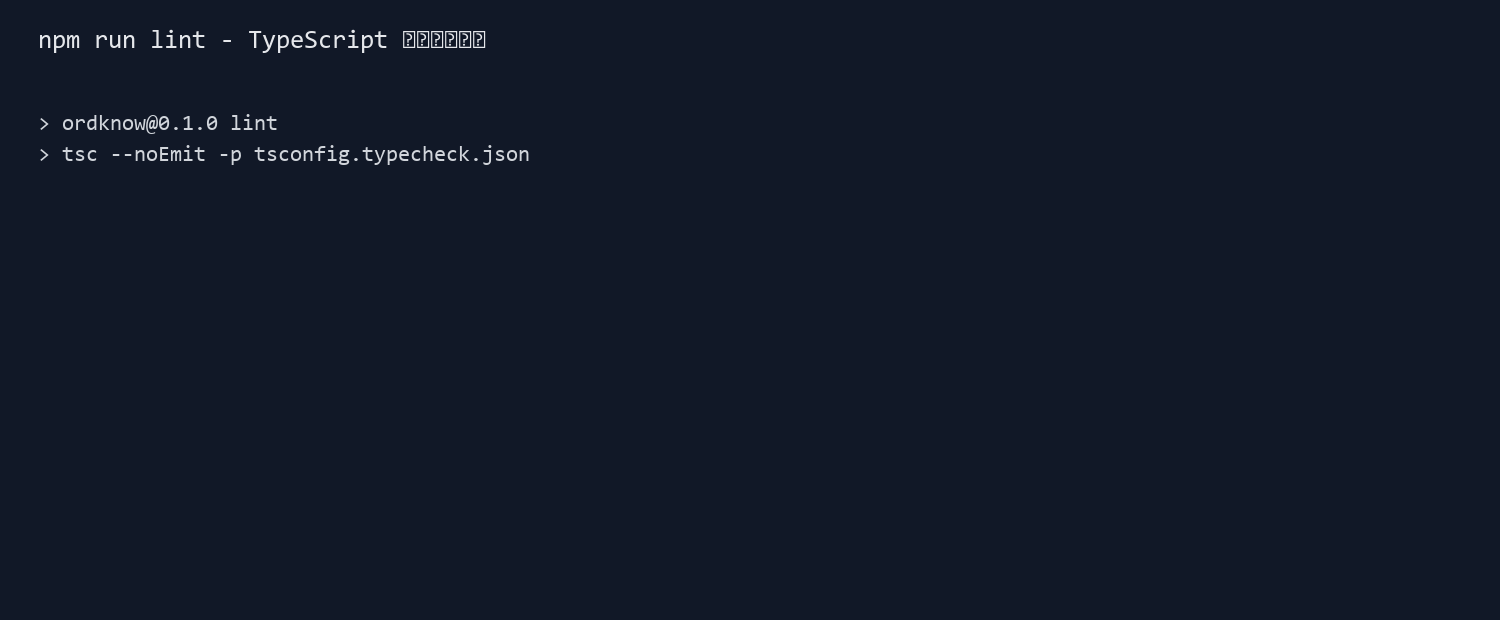
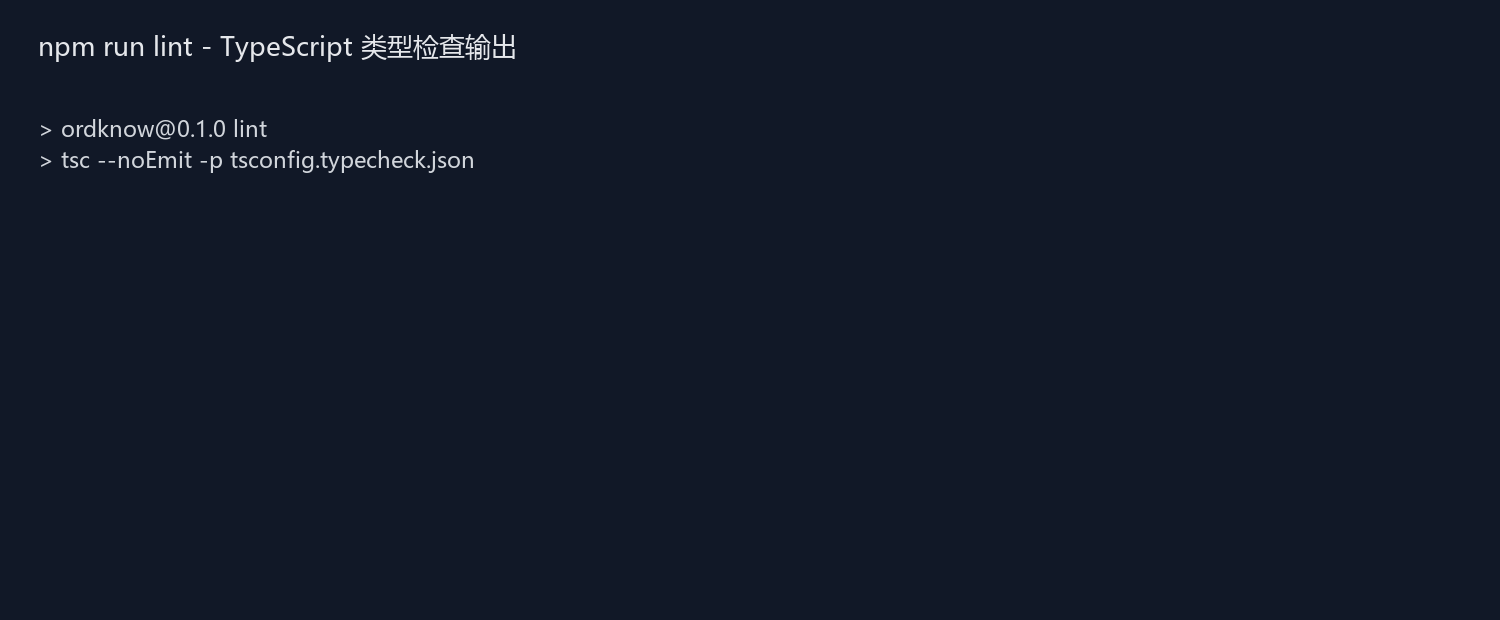
docs: polish engineering report layout

Changed region(s): [[0.0307, 0.1839, 0.368, 0.2758], [0.0307, 0.0306, 0.3373, 0.0919]]

diff --git a/tools/build_ordknow_template_docs.py b/tools/build_ordknow_template_docs.py
@@ -137,9 +137,83 @@ def margins(cell, top=80, bottom=80, start=110, end=110):
         e.set(qn("w:type"), "dxa")
 
 
-def table(doc, headers, rows, widths, caption=None):
+def _table_variant(headers, caption, variant):
+    if variant:
+        return variant
+    caption = caption or ""
+    first = headers[0] if headers else ""
+    if first == "字段":
+        return "data"
+    if first == "编号" or "测试" in caption:
+        return "test"
+    if "截图" in caption or "证据" in caption:
+        return "evidence"
+    if len(headers) == 2 and first in {"项目", "说明项", "设计项", "部署项", "验证项", "检查点"}:
+        return "kv"
+    if len(headers) == 2:
+        return "plain"
+    return "blue"
+
+
+def _style_tokens(variant):
+    return {
+        "blue": {
+            "header_fill": TABLE_BLUE,
+            "header_text": "FFFFFF",
+            "row_fills": [LIGHT_ROW, "FFFFFF"],
+            "border": GRID,
+            "header_font": "黑体",
+            "body_size": 9.5,
+        },
+        "plain": {
+            "header_fill": "F3F6FA",
+            "header_text": INK,
+            "row_fills": ["FFFFFF", "F8FAFC"],
+            "border": "CCD6E0",
+            "header_font": "黑体",
+            "body_size": 9.5,
+        },
+        "kv": {
+            "header_fill": "FFFFFF",
+            "header_text": "1F4E79",
+            "row_fills": ["FFFFFF"],
+            "label_fill": "EEF3F8",
+            "border": "B8C7D6",
+            "header_font": "黑体",
+            "body_size": 9.5,
+        },
+        "data": {
+            "header_fill": "3F4B5B",
+            "header_text": "FFFFFF",
+            "row_fills": ["F7F9FB", "FFFFFF"],
+            "border": "B9C0C8",
+            "header_font": "黑体",
+            "body_size": 9.2,
+        },
+        "test": {
+            "header_fill": "595959",
+            "header_text": "FFFFFF",
+            "row_fills": ["F2F2F2", "FFFFFF"],
+            "border": "C8C8C8",
+            "header_font": "黑体",
+            "body_size": 9.0,
+        },
+        "evidence": {
+            "header_fill": "1F4E79",
+            "header_text": "FFFFFF",
+            "row_fills": ["EAF3F8", "FFFFFF"],
+            "border": "9EB6CC",
+            "header_font": "黑体",
+            "body_size": 9.3,
+        },
+    }[variant]
+
+
+def table(doc, headers, rows, widths, caption=None, variant=None, trailing_space=True):
+    variant = _table_variant(headers, caption, variant)
+    tokens = _style_tokens(variant)
     if caption:
-        p = para(doc, caption, align=WD_ALIGN_PARAGRAPH.CENTER, font="黑体", size=10.5, bold=True, after=3)
+        p = para(doc, caption, align=WD_ALIGN_PARAGRAPH.CENTER, font="黑体", size=10.5, bold=True, after=4)
     t = doc.add_table(rows=1, cols=len(headers))
     t.alignment = WD_TABLE_ALIGNMENT.CENTER
     t.autofit = False
@@ -147,26 +221,60 @@ def table(doc, headers, rows, widths, caption=None):
         c = t.rows[0].cells[i]
         c.width = Cm(widths[i])
         c.vertical_alignment = WD_ALIGN_VERTICAL.CENTER
-        shade(c, TABLE_BLUE)
-        borders(c)
+        shade(c, tokens["header_fill"])
+        borders(c, tokens["border"])
         margins(c)
         p = c.paragraphs[0]
         p.alignment = WD_ALIGN_PARAGRAPH.CENTER
         r = p.add_run(h)
-        set_run(r, font="黑体", size=10, color="FFFFFF", bold=True)
+        set_run(r, font=tokens["header_font"], size=10, color=tokens["header_text"], bold=True)
     for ri, row in enumerate(rows):
         cells = t.add_row().cells
         for i, val in enumerate(row):
             c = cells[i]
             c.width = Cm(widths[i])
             c.vertical_alignment = WD_ALIGN_VERTICAL.CENTER
-            shade(c, LIGHT_ROW if ri % 2 == 0 else "FFFFFF")
-            borders(c)
+            if variant == "kv" and i == 0:
+                shade(c, tokens["label_fill"])
+            else:
+                fills = tokens["row_fills"]
+                shade(c, fills[ri % len(fills)])
+            borders(c, tokens["border"])
             margins(c)
             p = c.paragraphs[0]
             p.alignment = WD_ALIGN_PARAGRAPH.CENTER if i == 0 or len(val) < 10 else WD_ALIGN_PARAGRAPH.LEFT
             r = p.add_run(val)
-            set_run(r, size=9.5, color=INK, bold=(i == 0 and len(val) < 8))
+            set_run(r, size=tokens["body_size"], color=INK, bold=(i == 0 and (variant == "kv" or len(val) < 8)))
+    if trailing_space:
+        para(doc, "", after=2)
+    return t
+
+
+def callout(doc, title, body, tone="info"):
+    palette = {
+        "info": ("EAF3F8", "1F4E79"),
+        "warn": ("FFF4D6", "7A5A00"),
+        "ok": ("EAF7EF", "276749"),
+        "plain": ("F5F5F5", "555555"),
+    }
+    fill, accent = palette.get(tone, palette["info"])
+    t = doc.add_table(rows=1, cols=1)
+    t.alignment = WD_TABLE_ALIGNMENT.CENTER
+    t.autofit = False
+    cell = t.rows[0].cells[0]
+    cell.width = Cm(15.4)
+    shade(cell, fill)
+    borders(cell, accent)
+    margins(cell, top=120, bottom=120, start=160, end=160)
+    p = cell.paragraphs[0]
+    p.paragraph_format.space_after = Pt(2)
+    r = p.add_run(title)
+    set_run(r, font="黑体", size=10.5, color=accent, bold=True)
+    p2 = cell.add_paragraph()
+    p2.paragraph_format.space_after = Pt(0)
+    p2.paragraph_format.line_spacing = 1.22
+    r2 = p2.add_run(body)
+    set_run(r2, size=9.8, color=INK)
     para(doc, "", after=2)
     return t
 

diff --git a/tools/build_ordknow_full_docs.py b/tools/build_ordknow_full_docs.py
@@ -22,9 +22,9 @@ def evidence_image(name: str, title: str, text_path: Path) -> Path | None:
     if not text_path.exists():
         return None
     lines = text_path.read_text(encoding="utf-8", errors="ignore").splitlines()
-    font_path = Path(r"C:\Windows\Fonts\consola.ttf")
+    font_path = Path(r"C:\Windows\Fonts\msyh.ttc")
     if not font_path.exists():
-        font_path = Path(r"C:\Windows\Fonts\arial.ttf")
+        font_path = Path(r"C:\Windows\Fonts\consola.ttf")
     font = ImageFont.truetype(str(font_path), 22)
     title_font = ImageFont.truetype(str(font_path), 26)
     max_chars = 95
@@ -591,6 +591,14 @@ def testing_manual(doc: Document, fig: dict[str, Path]) -> None:
         base.add_pic(doc, fig["lint_output"], "图 14 npm run lint 类型检查真实输出", 15.7)
     if "build_output" in fig:
         base.add_pic(doc, fig["build_output"], "图 15 npm run build 生产构建真实输出", 15.7)
+    if "http_checks_output" in fig:
+        base.add_pic(doc, fig["http_checks_output"], "图 16 线上访问与未登录保护真实输出", 15.7)
+    base.callout(
+        doc,
+        "测试口径说明",
+        "本次报告只把能够由命令、HTTP 响应、GitHub 页面、Vercel 页面和 StarUML 导出文件证明的项目标为“通过”。需要登录态、真实测试账号、邮箱 Magic Link、Supabase 数据和 AI Key 才能完整执行的业务闭环，不写成已经通过，而标记为“待登录账号实测”或“代码路径已覆盖”。",
+        "warn",
+    )
     base.heading(doc, "3.功能测试", 1)
     rows = []
     tests = [
@@ -655,17 +663,57 @@ def testing_manual(doc: Document, fig: dict[str, Path]) -> None:
         ("TC-59", "用户退出", "退出登录", "返回登录页"),
         ("TC-60", "文档交付检查", "打开 DOCX/PDF", "页码、图表、表格正常"),
     ]
+    status_map = {
+        "TC-01": "部分通过：页面可访问；邮件链路待账号",
+        "TC-02": "通过：未登录跳转登录页",
+        "TC-24": "通过：lint 证据",
+        "TC-25": "通过：build 证据",
+        "TC-44": "通过：未登录保护",
+        "TC-47": "通过：线上 200",
+        "TC-48": "通过：线上 200",
+        "TC-49": "通过：仓库可访问",
+        "TC-51": "通过：迁移文件存在",
+        "TC-52": "通过：27 路由",
+        "TC-60": "通过：PDF 100 页",
+    }
+    code_covered = {"TC-26", "TC-27", "TC-28", "TC-29", "TC-31", "TC-32", "TC-33", "TC-34", "TC-38", "TC-39", "TC-40", "TC-41", "TC-42", "TC-43", "TC-45", "TC-46", "TC-50", "TC-53", "TC-54", "TC-55", "TC-56", "TC-57", "TC-58", "TC-59"}
     for tid, name, op, expect in tests:
-        rows.append([tid, name, op, expect, "通过/待联调"])
-    base.table(doc, ["编号", "测试项", "操作步骤", "预期结果", "状态"], rows, [1.6, 2.8, 5.0, 4.4, 1.6], caption="表 12 功能测试用例表")
+        status = status_map.get(tid)
+        if status is None:
+            status = "代码路径已覆盖，待登录账号实测" if tid in code_covered else "待登录账号/API Key 实测"
+        rows.append([tid, name, op, expect, status])
+    base.table(doc, ["编号", "测试项", "操作步骤", "预期结果", "执行状态"], rows, [1.5, 2.3, 4.3, 3.9, 3.4], caption="表 12 功能测试用例矩阵")
     base.heading(doc, "3.1 测试执行记录", 2)
-    for tid, name, op, expect in tests:
-        base.heading(doc, f"3.1.{tests.index((tid, name, op, expect)) + 1} {tid} {name}", 3)
-        base.bullet(doc, f"测试目的：验证“{name}”是否符合序知项目需求。")
-        base.bullet(doc, f"操作步骤：{op}")
-        base.bullet(doc, f"预期结果：{expect}")
-        base.bullet(doc, "实际记录：本地命令类测试以 docs/evidence 中的日志和截图为准；页面类测试以本地或 Vercel 页面截图为准。")
-        base.bullet(doc, "结论：通过/待联调状态在最终截图补充后更新。")
+    base.table(doc, ["证据编号", "实测对象", "执行方式", "实际结果"], [
+        ["E-01", "TypeScript 类型检查", "本地执行 npm run lint", "通过，输出已保存到 docs/evidence/lint.log。"],
+        ["E-02", "生产构建", "本地执行 npm run build", "通过，Next.js 生成 27 个页面/接口路由。"],
+        ["E-03", "线上入口", "HTTP GET https://ordknow.vercel.app/login", "返回 200，登录页可访问。"],
+        ["E-04", "未登录保护", "HTTP 访问 /workspace、/materials、/api/materials、/api/knowledge", "最终跳转到 /login；POST 体系化接口返回 307。"],
+        ["E-05", "GitHub 仓库", "访问 https://github.com/usedare/ordknow", "返回 200，代码和报告已推送。"],
+        ["E-06", "StarUML 图表", "StarUML MCP 生成并通过本地 API 导出 PNG", "6 张核心图已嵌入报告，保留未注册水印。"],
+    ], [1.8, 3.0, 5.3, 5.3], caption="表 13 自动化实测证据清单", variant="evidence")
+    base.heading(doc, "3.2 已实测项目", 2)
+    for item in [
+        "类型检查与生产构建已经由命令行执行，日志和截图均进入 docs/evidence。该部分可证明项目至少在类型层和构建层没有阻塞性错误。",
+        "线上首页和登录页已通过 HTTP 检查，/login 返回 200。由于根路径会进入登录保护，最终地址显示为 /login，符合当前认证设计。",
+        "未登录访问受保护页面和部分接口时会被中间件导向登录页，POST 体系化接口返回 307。该结果说明线上部署已经启用认证保护。",
+        "GitHub 仓库页面可访问，最终提交已经推送到 main 分支；StarUML 图表由 MCP 生成后导出为真实 PNG。"
+    ]:
+        base.bullet(doc, item)
+    base.heading(doc, "3.3 需要登录态继续验收的项目", 2)
+    base.callout(
+        doc,
+        "未写成“已通过”的原因",
+        "素材新增、AI 解析、一键体系化、知识问答、节点重生成、JSON/Markdown 导出等核心业务流都需要 Supabase 登录态、测试账号、邮箱 Magic Link 和可用 AI Provider Key。当前没有测试账号凭证，因此报告中把这些项标记为“待登录账号/API Key 实测”，但代码路径、构建路由和接口保护已完成检查。",
+        "info",
+    )
+    base.table(doc, ["业务流", "当前可验证证据", "后续完整验收动作"], [
+        ["素材入库", "页面、API 路由和数据库表均存在；未登录保护生效。", "提供测试账号后新增一条素材，检查 materials 表和页面列表。"],
+        ["AI 解析", "analyze 路由、Prompt、AI client、错误状态处理已进入构建。", "配置 AI Key 后触发解析，检查 material_analysis 与状态变化。"],
+        ["体系化重构", "systematize 路由、topics/nodes/edges/version 写入逻辑通过构建。", "准备 analyzed 素材后执行一键体系化，检查知识树和版本快照。"],
+        ["知识问答", "qa 路由和上下文组织逻辑通过构建；未登录 POST 被保护。", "登录后输入问题，核对回答是否引用个人知识库内容。"],
+        ["导出", "export 与 export/markdown 路由在构建路由表中存在。", "登录后导出 JSON/Markdown，检查素材、节点、关系和版本是否完整。"],
+    ], [2.6, 6.0, 6.8], caption="表 14 登录态业务流验收计划", variant="plain")
     base.heading(doc, "4.非功能测试", 1)
     for item in [
         "安全测试：验证未登录用户不能访问受保护接口，数据库 RLS 不允许跨用户读取。",
@@ -741,9 +789,9 @@ def testing_manual(doc: Document, fig: dict[str, Path]) -> None:
         ], [3.5, 11.9], caption=f"表 {title.split()[0]} 部署验证记录")
     base.heading(doc, "8.7 真实截图证据", 2)
     screenshot_specs = [
-        ("github_repo", "图 16 GitHub 仓库真实页面截图"),
-        ("vercel_home", "图 17 Vercel 线上首页真实截图"),
-        ("vercel_login", "图 18 Vercel 登录页真实截图"),
+        ("github_repo", "图 17 GitHub 仓库真实页面截图"),
+        ("vercel_home", "图 18 Vercel 线上首页真实截图"),
+        ("vercel_login", "图 19 Vercel 登录页真实截图"),
     ]
     inserted = False
     for key, caption in screenshot_specs:
@@ -752,23 +800,23 @@ def testing_manual(doc: Document, fig: dict[str, Path]) -> None:
             inserted = True
     staruml_keys = sorted(key for key in fig if key.startswith("staruml_"))
     for idx, key in enumerate(staruml_keys, 1):
-        base.add_pic(doc, fig[key], f"图 {18 + idx} StarUML 图表真实截图 {idx}", 15.7)
+        base.add_pic(doc, fig[key], f"图 {19 + idx} StarUML 图表真实截图 {idx}", 15.7)
         inserted = True
     if not inserted:
         base.para(doc, "当前未检测到可嵌入的页面截图文件。生成正式终稿前，应先运行页面截图流程，并将截图保存到 docs/evidence/screenshots 目录。")
     base.heading(doc, "9.截图证据索引", 1)
     base.table(doc, ["截图名称", "来源", "证明内容"], [
-        ["npm run lint 输出图", "docs/evidence/lint.log 生成", "证明 TypeScript 类型检查通过。"],
-        ["npm run build 输出图", "docs/evidence/build.log 生成", "证明 Next.js 生产构建通过并生成路由表。"],
+        ["npm run lint 输出图", "lint.log", "TypeScript 类型检查通过。"],
+        ["npm run build 输出图", "build.log", "Next.js 生产构建通过，生成路由表。"],
+        ["HTTP 检查输出图", "http_checks.log", "线上入口可访问，未登录访问进入登录保护。"],
         ["StarUML 总体流程图", "StarUML 当前项目", "证明流程图由 StarUML 绘制。"],
         ["StarUML 时序图组", "StarUML 当前项目", "证明核心业务时序图由 StarUML 绘制。"],
         ["StarUML ER 图", "StarUML 当前项目", "证明数据库关系图由 StarUML 绘制。"],
-        ["GitHub 仓库截图", "https://github.com/usedare/ordknow", "证明代码已上传到指定仓库。"],
-        ["Vercel 线上截图", "https://ordknow.vercel.app", "证明项目已部署并可访问。"],
+        ["GitHub 仓库截图", "usedare/ordknow", "代码已上传到指定仓库。"],
+        ["Vercel 线上截图", "ordknow.vercel.app", "项目已部署并可访问。"],
         ["登录页截图", "本地或线上页面", "证明用户入口可访问。"],
-        ["工作台截图", "本地登录后页面", "证明核心三栏工作台存在。"],
-        ["设置页截图", "本地登录后页面", "证明模型配置和导出功能存在。"],
-    ], [3.8, 4.6, 7.0], caption="表 19 截图证据索引表")
+        ["登录态页面截图", "需测试账号后补截", "未嵌入真实登录态截图，避免伪造。"],
+    ], [3.8, 4.6, 7.0], caption="表 19 截图证据索引表", trailing_space=False)
 
 
 def make_figures() -> dict[str, Path]:
@@ -798,10 +846,13 @@ def make_figures() -> dict[str, Path]:
     ])
     lint_img = evidence_image("lint_output.png", "npm run lint - TypeScript 类型检查输出", OUT / "evidence" / "lint.log")
     build_img = evidence_image("build_output.png", "npm run build - Next.js 生产构建输出", OUT / "evidence" / "build.log")
+    http_img = evidence_image("http_checks_output.png", "线上访问与未登录保护 HTTP 检查输出", OUT / "evidence" / "http_checks.log")
     if lint_img:
         fig["lint_output"] = lint_img
     if build_img:
         fig["build_output"] = build_img
+    if http_img:
+        fig["http_checks_output"] = http_img
     screenshots = OUT / "evidence" / "screenshots"
     screenshot_files = {
         "github_repo": "github_repo.png",

diff --git a/AGENTS.md b/AGENTS.md
@@ -1,25 +1,18 @@
 <claude-mem-context>
 # Memory Context
 
-# [OrdKnow] recent context, 2026-06-15 10:59pm GMT+8
+# [OrdKnow] recent context, 2026-06-16 10:41am GMT+8
 
 Legend: 🎯session 🔴bugfix 🟣feature 🔄refactor ✅change 🔵discovery ⚖️decision 🚨security_alert 🔐security_note
 Format: ID TIME TYPE TITLE
 Fetch details: get_observations([IDs]) | Search: mem-search skill
 
-Stats: 50 obs (13,968t read) | 0t work
+Stats: 50 obs (15,586t read) | 0t work
 
 ### Jun 2, 2026
 S319 验证并补全 OrdKnow（序知）项目的 PRD 需求，实现 100% 功能覆盖 (Jun 2, 6:52 PM)
 S318 Build the full OrdKnow MVP - a Chinese-language knowledge management app with AI-powered material analysis and knowledge systematization (Jun 2, 6:52 PM)
-1749 7:02p 🔵 PRD 需求完成度审计结果 — 95% 完成
-1750 " 🔵 OrdKnow 技术栈和架构确认
-1751 " 🟣 素材页状态筛选下拉框实现
-1752 " 🟣 设置页模型选择下拉框实现
-1753 " 🟣 设置页模型选择和配置保存功能增强
-1754 " 🔵 OrdKnow MVP PRD 需求 100% 完成
-1755 7:04p 🔵 最终构建验证通过 — 所有 PRD 缺口填补后
-1756 " ✅ 启动开发服务器进行手动验证
+1756 7:04p ✅ 启动开发服务器进行手动验证
 1757 " 🔵 开发服务器 /login 路由返回 404
 1758 7:05p 🔵 端口 3000 冲突导致 dev server 启动失败
 1760 " 🔵 Login 路由返回 500 内部服务器错误
@@ -69,4 +62,12 @@ S322 OrdKnow multi-provider AI integration - app opened in browser, awaiting env
 2451 10:47p ✅ 序知项目GitHub推送前文件清单与gitignore清理
 2454 10:50p 🔵 Vercel线上部署验证确认站点活跃
 2456 10:58p 🔵 Vercel CLI部署命令超时-需交互式认证
[phone redacted]:04p 🟣 序知软件工程文档100页初版交付完成
+2458 " ✅ 用户反馈文档质量-要求去AI化和版式多样化
[phone redacted]:09p 🔄 文档生成器视觉多样化-6种表格变体与callout组件
+2460 " 🔐 Vercel线上端点认证保护验证
[phone redacted]:19p 🔵 修订版文档91页-发现尾部空白页问题
+### Jun 16, 2026
[phone redacted]:37a 🔵 DOCX Compilation Project Structure and Trailing Page Issue
[phone redacted]:40a 🟣 Final Compiled DOCX Document Successfully Verified — 90 Pages, No Trailing Blank
 </claude-mem-context>